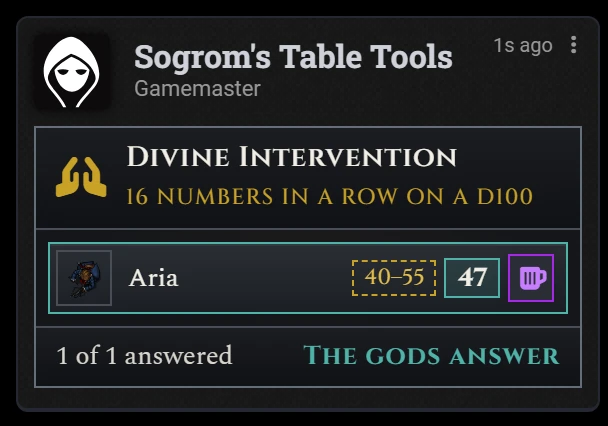
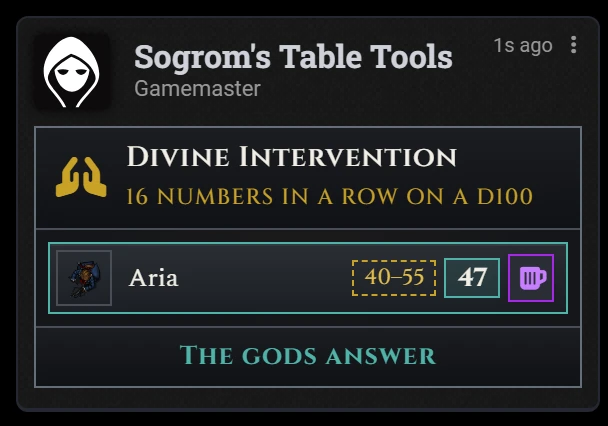
Giving more room for the Gods to Answer

Changed region(s): [[0.0938, 0.7934, 0.9375, 0.8545]]

diff --git a/styles/roll-requests.css b/styles/roll-requests.css
@@ -617,6 +617,10 @@
   color: var(--cc-text);
 }
 
+:is(.chat-message, .stt-request-popup) .stt-request-summary.divine {
+  justify-content: center;
+}
+
 :is(.chat-message, .stt-request-popup) .stt-request-summary strong {
   color: var(--cc-bright);
   font-family: var(--cc-font-heading);

diff --git a/CHANGELOG.md b/CHANGELOG.md
@@ -8,6 +8,8 @@ All notable changes to Sogrom's Table Tools.
 
 - **Divine Intervention asks one character.** The request window picks who rolls with radio buttons, without the
   quick picks or **Select All**, and a request through the API for more than one actor is refused.
+- **Divine Intervention's card ends on the verdict.** Its footer says only whether the gods answer or remain silent,
+  without counting how many of one answered.
 
 ## 0.0.6
 
